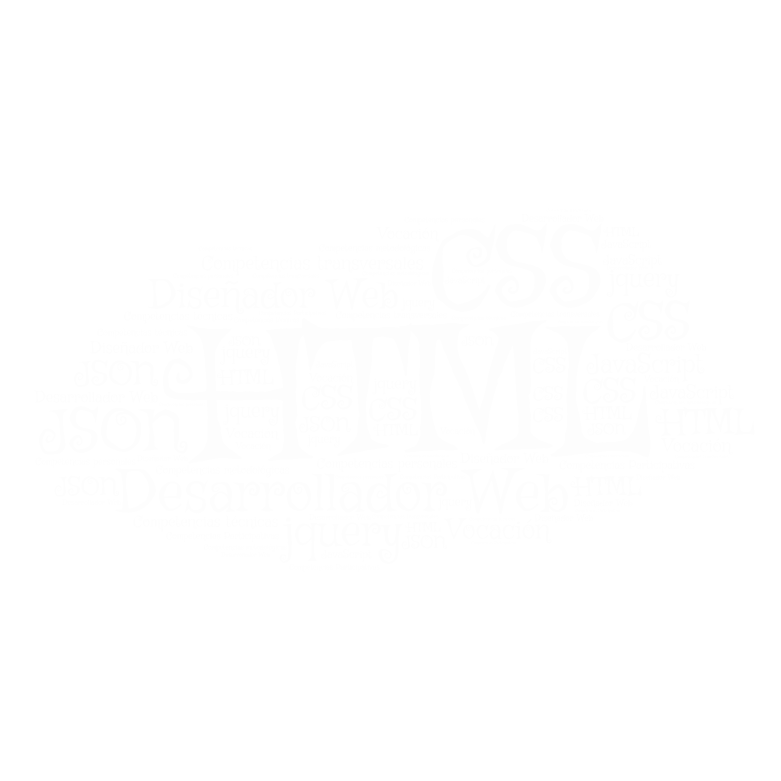
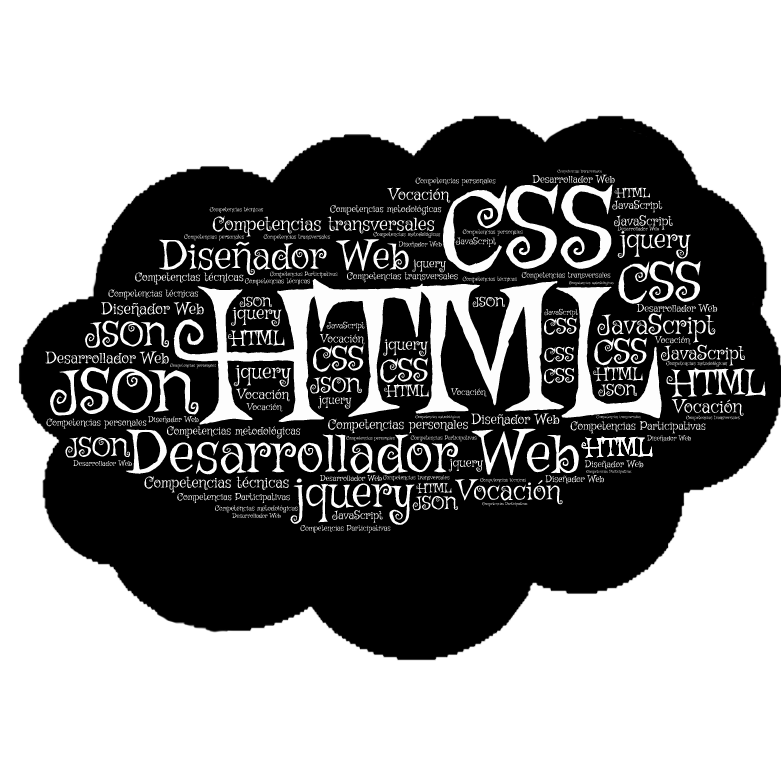
Nube and Abstract
+Responsive design on Nube
+Abstract fixed

diff --git a/css/estilos.css b/css/estilos.css
@@ -85,18 +85,7 @@ body {
 	font-size:10px;
 	text-align:justify;
 }
-#pizarra{
-	background:transparent;
-	height: 100vh;
-    margin-bottom: 0px;
-    background-image: url(../images/nubepizarra.png);
-    background-position: 0% 0%;
-    background-size: cover;
-    background-repeat: no-repeat;
-    color: white;
-    text-shadow: black 0.3em 0.3em 0.3em;
-	border-radius:0;
-}
+
 #divpiza{
 	background:transparent;
 }
@@ -337,11 +326,9 @@ tbody tr td a:hover{
     margin-right: 10px;
     height: 65vh;
     text-align: justify;
-    font-size: large;
+    font-size: medium;
 	}
-	#pizarra{
-	display:none;
-	}
+	
 	#bgitem{
 		display:none;
 	}

diff --git a/definiciones.html b/definiciones.html
@@ -113,7 +113,12 @@
         </div>
     </div>
 <div id="divpiza" class="jumbotron text-center">
-  <img id="pizarra" src="images/nubepizarra.png" />
+  
+<picture id="nubes">
+  <source srcset="images/nubechica.png" media="(max-width: 600px)">
+  <source srcset="images/nubepizarra.png" media="(max-width: 1500px)">
+  <img src="images/nubepizarra.png" alt="Nube de palabras" style="width:100%;">
+</picture>
   <div id="def">
   <h2 id="definition-title"></h2>
   <p id ="definition-desc"></p>
